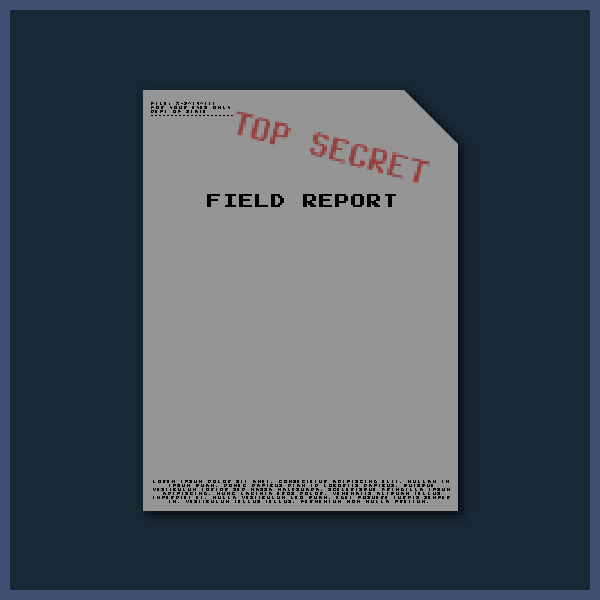
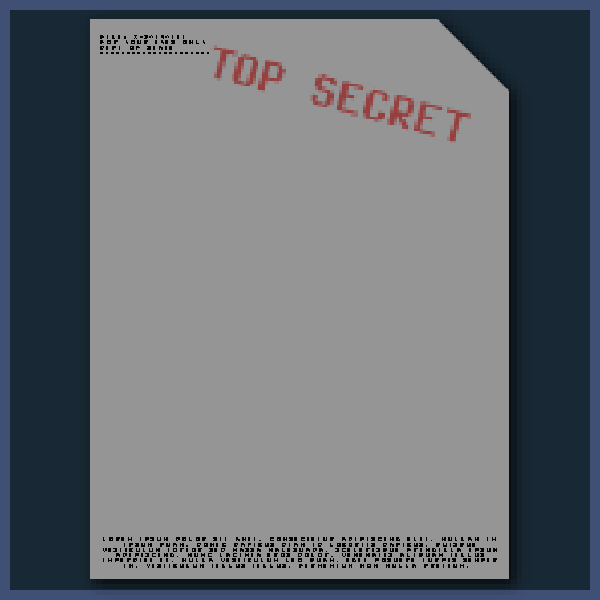
generate a results report, render the words and overlay on a report image.

diff --git a/src/model.py b/src/model.py
@@ -1,6 +1,6 @@
 import os
 import random
-from model_builder import Builder
+from model_builder import *
 from model_ufo import UFOTactical
 
 STATE_MENU = 1
@@ -22,6 +22,8 @@ class Model(object):
         self._level = 0
         self.builder = Builder(self)
         self.ufotactical = UFOTactical(self)
+        self.mission_success = False
+        self.results = ''
         
         # listeners get notified of model events
         self.listeners = []
@@ -55,21 +57,113 @@ class Model(object):
         self.state = new_state
         if new_state == STATE_UFO:
             self.ufotactical.reset_goal()
+            self.analyze_results()
         if new_state == STATE_RESULTS:
             self.analyze_results()
         self.notify('state', new_state)
     
     def analyze_results(self):
-        # analyze the body accuracy and for weirdness
+        """
+        Build the results from all played values.
+        
+        """
+        
+        # set item types
+        item_type = ITEM_TYPES[self.level]
+        mission_type = TACTICAL_TYPE[self.level]
+        
+        replacers = {
+            'item': item_type,
+            'accuracy': self.builder.accuracy,
+        }
         
         # analyze tactical outcome
-        if self.ufotactical.distance_from_goal > 0:
-            # fail
-            pass
+        if self.mission_success:
+            replacers['outcome'] = 'SUCCESS'
         else:
-            # succeed
-            pass
+            replacers['outcome'] = 'FAILURE'
     
+        # intro
+        intro = random.choice((
+            'Today, Scientists have discovered one %(item)s ' \
+            'during a recent excavation near a historic ruin.',
+            ))
+        
+        replacers['intro'] = (intro % replacers)
+        
+        # weirdness determines public opinion.
+        # accuracy of the item built sets the base for believability.
+        # other minor incidents will affect it thereafter.
+        weirdness = 10 - int(self.builder.accuracy / 10.0)
+        
+        # mission failure increase weirdness
+        if not self.mission_success:
+            weirdness += 3
+        
+        # bodies have arms & legs swapped around
+        if item_type
+        
+        opinion = 'Nothing suspicious about the %(item)s was discovered. '
+        if weirdness > 0:
+            if weirdness <= 3:
+                opinion = 'Conspiracist websites are venting about ' \
+                    'the authenticity of the %(item)s. Authorities ' \
+                    'can neither substantiate nor deny these claims, ' \
+                    'and the %(item)s will be wondered about for many ' \
+                    'decades to come.'
+            elif weirdness <= 6:
+                opinion = 'The %(item)s in question seems to be authentic, ' \
+                    'yes minor details leave experts dumbfounded and ' \
+                    'questioning the legitimacy of it. ' \
+                    'It will remain another unanswered mystery unless ' \
+                    'more evidence comes to light.'
+            elif weirdness <= 9:
+                opinion = 'The %(item)s seems to bea faux, enough ' \
+                    'inconsistencies exist to make the scientific ' \
+                    'community unbelievers, but the loyal ' \
+                    'cult followers and conspiracists refuse to deny ' \
+                    'this discovery as a sign of the truth.'
+            else:
+                opinion = 'Experts found multiple flaws in the ' \
+                    '%(item)s, it is known to be falsified. Authorities ' \
+                    'have opened investigations, your reputation is tarnished. ' \
+                    'Hordes of conspiracists fall to the streets in uproar ' \
+                    'for something they now know is a lie!'
+        
+        opinion = opinion % replacers
+        replacers['opinion'] = opinion
+        
+        chance = ''
+        if self.builder.accuracy >= 100:
+            chance = 'very high'
+        elif self.builder.accuracy >= 70:
+            chance = 'high'
+        elif self.builder.accuracy >= 50:
+            chance = 'medium'
+        elif self.builder.accuracy >= 30:
+            chance = 'low'
+        elif self.builder.accuracy >= 0:
+            chance = 'terrible'
+        replacers['chance'] = chance
+        
+        self.results = 'Briefing and preperation' \
+            '\n' \
+            'One %(item)s was constructed, it\'s authenticity was determined ' \
+            'to be %(accuracy)s percent, giving us a believability ' \
+            'rating of "%(chance)s".' \
+            '\n' \
+            'Mission Result: %(outcome)s' \
+            '\n' \
+            'MEDIA STATEMENT EXTRACT' \
+            '\n' \
+            '%(intro)s %(opinion)s' \
+            '\n' \
+            ''
+        
+        self.results = (self.results % replacers)
+        
+        print(self.results)
+        
     def turn(self):
         """
         Perform a game turn as determined by the FPS of the view.

diff --git a/src/view.py b/src/view.py
@@ -117,6 +117,9 @@ class UFOSprite(pygame.sprite.Sprite):
             if pressed[K_DOWN] or pressed[K_s]:
                 self._accelerate(0, 1)
                 lose_acceleration = False
+                
+            if pressed[K_SPACE]:
+                self.health = 0
             
             self._clamp()
 
@@ -283,6 +286,7 @@ class View(object):
         self.sprites = []
         self.load_sprites()
         self.font = pygame.font.Font(os.path.join('..', 'data', 'emulogic.ttf'), 12)
+        self.smallfont = pygame.font.Font(os.path.join('..', 'data', 'emulogic.ttf'), 10)
         
         # confirm dialog
         self.confirm_image = pygame.image.load(os.path.join('..', 'data', 'confirm-dialog.png')).convert()
@@ -439,6 +443,11 @@ class View(object):
             # exit
             if self.exit_counter == 0:
                 self.model.set_state(STATE_RESULTS)
+                
+        elif self.model.state == STATE_RESULTS:
+            
+            # report!
+            self.canvas.blit(self.brief_sprite, (111, 100))
         
         # draw sprites
         garbage_sprites = []
@@ -511,9 +520,15 @@ class View(object):
             epos)
 
     def draw_ufo_help(self):
-        if self.model.ufotactical.clock  < 50: #250
-            self.canvas.blit(self.agent_image, (10, 10))
-            self.canvas.blit(self.tactical_info_sprite, (220, 40))
+        
+        if self.model.state == STATE_UFO:
+            # for the first few ticks
+            if self.model.ufotactical.clock  < 50: #250
+                # draw the agent picture
+                self.canvas.blit(self.agent_image, (10, 10))
+                # and show some helpful words of wisdom
+                if self.tactical_info_sprite:
+                    self.canvas.blit(self.tactical_info_sprite, (220, 40))
             
     def draw_ufo_healthbar(self):
         hp = self.ufo_sprite.health * 8 + 1
@@ -523,7 +538,7 @@ class View(object):
         pygame.draw.rect(self.canvas, GREEN, rect, 0)
         pygame.draw.rect(self.canvas, BLACK, fullrect, 2)
     
-    def print_wrapped_text(self, sentence, maxlength):
+    def print_wrapped_text(self, sentence, maxlength, font, color):
         """
         Creates an image with the given words wrapped.
         
@@ -538,7 +553,7 @@ class View(object):
         max_width = 0
         total_height = 0
         for line in lines:
-            surfii.append(self.font.render(line, False, TEXT, TRANSPARENT))
+            surfii.append(font.render(line, False, color, TRANSPARENT))
             print_size = surfii[-1].get_size()
             if print_size[0] > max_width:
                 max_width = print_size[0]
@@ -560,27 +575,41 @@ class View(object):
         
         """
         
-        BRIEF_TEXT_HEIGHT = 150
-        sprite = pygame.sprite.Sprite()
-        image = self.print_wrapped_text(
-            model_builder.LEVEL_SCENARIOS[self.model.level - 1], 30)
-        sprite.image = image
-        sprite.rect = pygame.Rect((0, 0), (image.get_width(), BRIEF_TEXT_HEIGHT))
-        self.brief_sprite = sprite
+        if self.model.state == STATE_BUILD:
+            BRIEF_TEXT_HEIGHT = 150
+            sprite = pygame.sprite.Sprite()
+            image = self.print_wrapped_text(
+                model_builder.LEVEL_SCENARIOS[self.model.level - 1], 
+                30,
+                self.font,
+                TEXT
+                )
+            sprite.image = image
+            sprite.rect = pygame.Rect((0, 0), (image.get_width(), BRIEF_TEXT_HEIGHT))
+            self.brief_sprite = sprite
+            
+            self.tactical_info_sprite = self.print_wrapped_text(
+                'Avoid gunfire until you reach the target zone. ' \
+                'Once in the zone, you must get shot down on purpose. ' \
+                'Timing is critical, good luck Agent!',
+                30,
+                self.font,
+                TEXT
+                )
         
-        self.tactical_info_sprite = self.print_wrapped_text(
-            'Avoid gunfire until you reach the target zone. ' \
-            'Once in the zone, you must get shot down on purpose. ' \
-            'Timing is critical, good luck Agent!'
-            , 30)
+        elif self.model.state == STATE_RESULTS:
+            
+            self.brief_sprite = self.print_wrapped_text(
+                self.model.results, 35, self.smallfont, BLACK)
 
     def scroll_brief(self, offset):
-        self.brief_offset += offset
-        max_size = self.brief_sprite.rect.height * 2
-        if self.brief_offset > max_size:
-            self.brief_offset = max_size
-        if self.brief_offset < 0:
-            self.brief_offset = 0
+        if self.model.state == STATE_BUILD:
+            self.brief_offset += offset
+            max_size = self.brief_sprite.rect.height * 2
+            if self.brief_offset > max_size:
+                self.brief_offset = max_size
+            if self.brief_offset < 0:
+                self.brief_offset = 0
     
     def model_event(self, event_name, data):
         

diff --git a/src/model_builder.py b/src/model_builder.py
@@ -1,3 +1,5 @@
+from model import *
+
 # parts available for use per level number.
 LEVEL_PARTS = {
     1: ('human torso', 'human head', 
@@ -12,7 +14,7 @@ LEVEL_PARTS = {
 
 # parts a level may start off with as in use
 DEFAULT_PARTS = {
-    1: ('human head',),
+    1: (),
 }
 
 # parts required to complete a level
@@ -42,6 +44,19 @@ LEVEL_SCENARIOS = (
     "scenario #3",
     "scenario #4",
     "scenario #5",
+)
+
+# determine the type of the item to build, maps to levels.
+ITEM_TYPES = (
+    'body',
+    'body',
+    'body',
+)
+
+# determine the method of evidence deployment
+TACTICAL_TYPE = (
+    1,
+    1,
 )
 
 class Builder(object):
